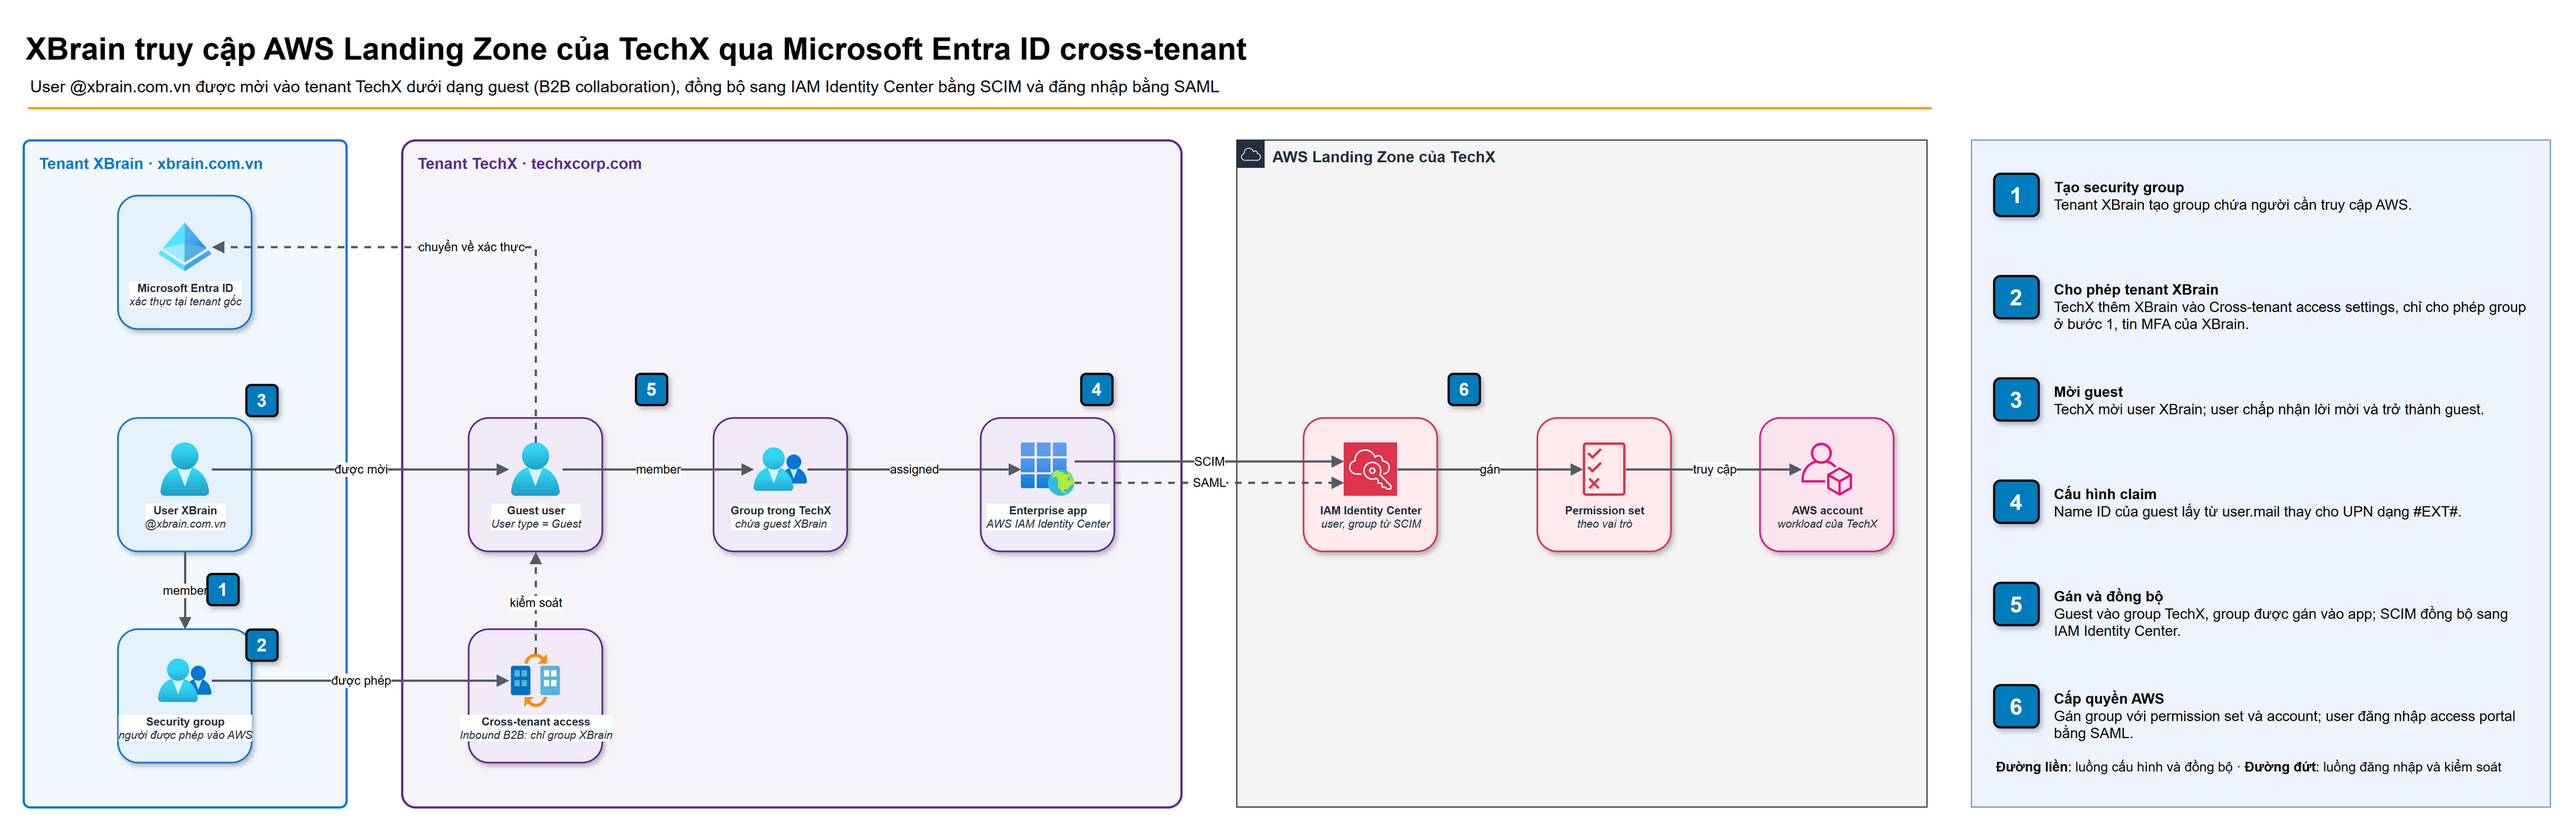
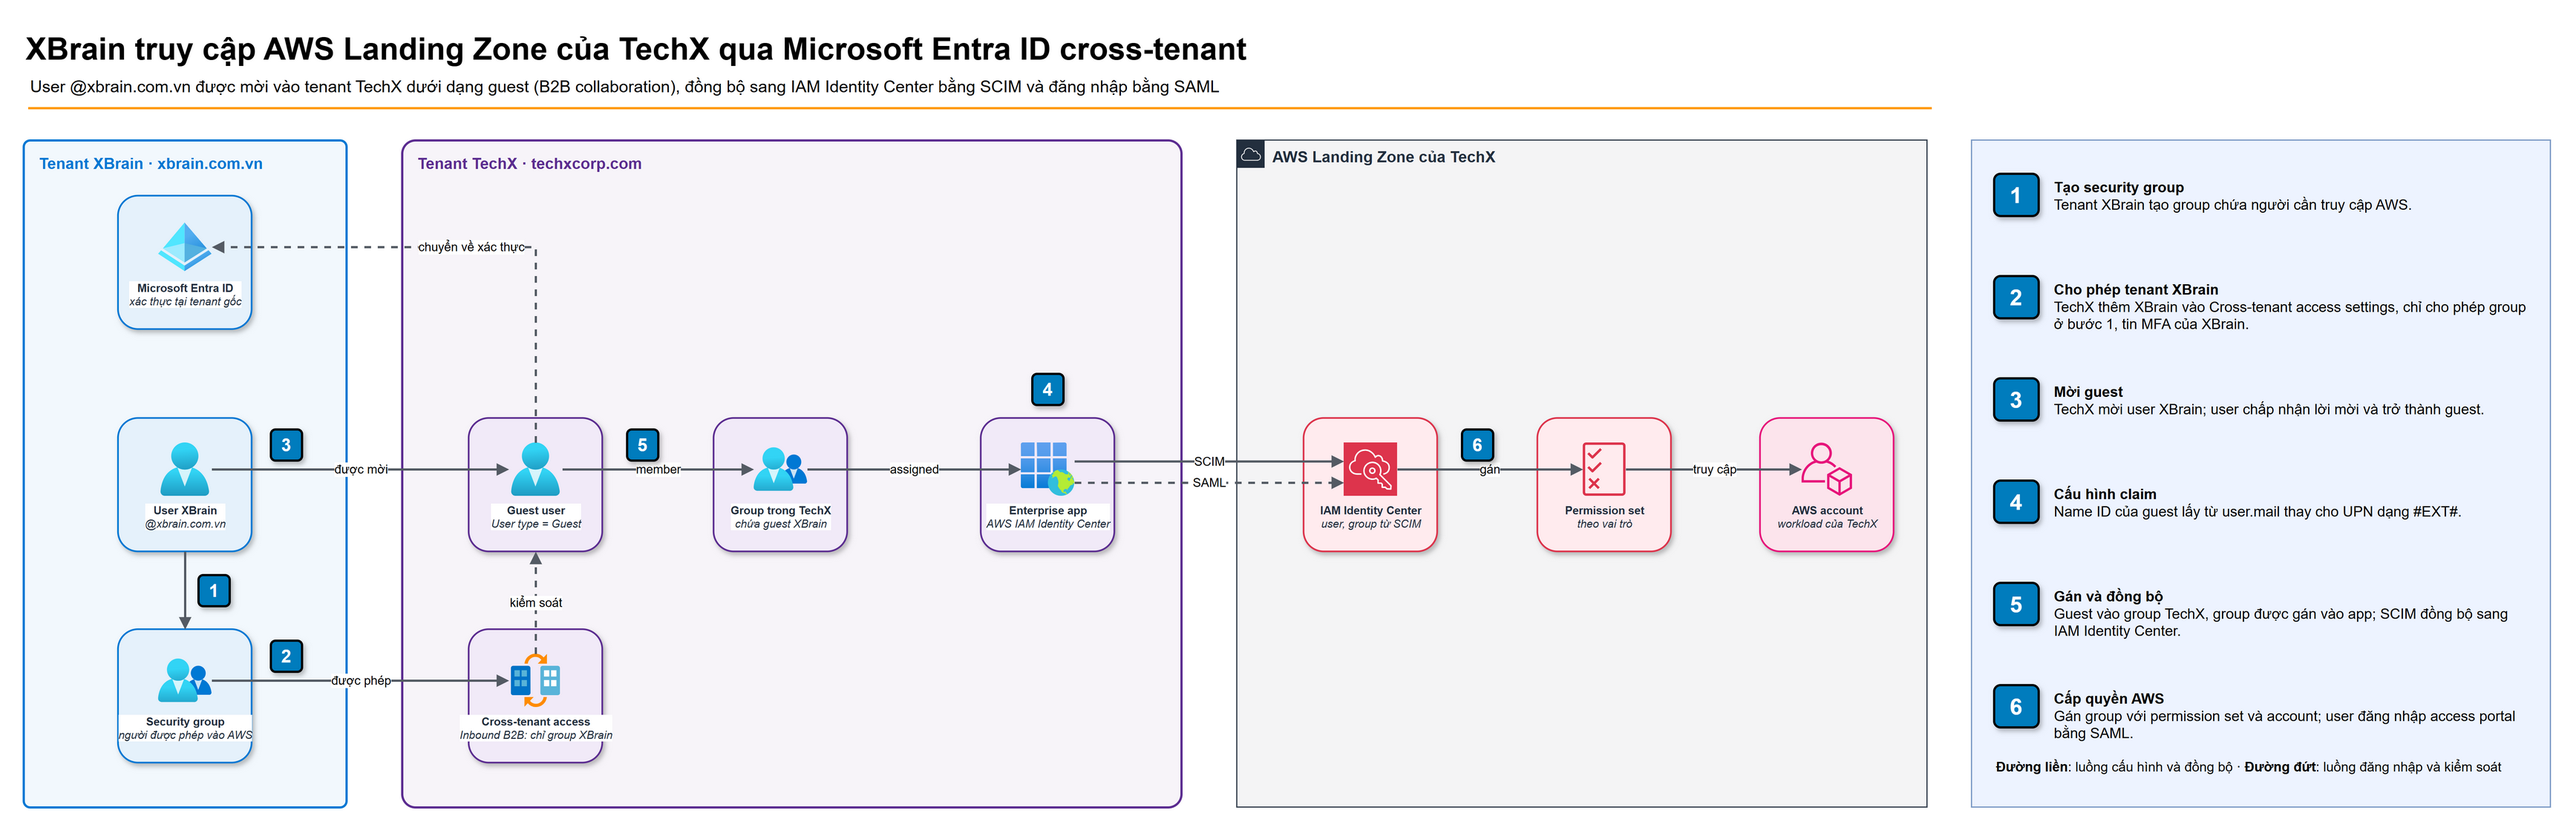
docs: align step badges in architecture diagram

diff --git a/images/_src/gen_cross_tenant_drawio.py b/images/_src/gen_cross_tenant_drawio.py
@@ -96,7 +96,7 @@ node('aws-ps', 'Permission set', 'theo vai trò', 1400, 380, aws_res('permission
 node('aws-acc', 'AWS account', 'workload của TechX', 1600, 380, aws_res('organizations_account', '#E7157B'), '#FCE4EC', '#E7157B')
 
 # Edges
-e('e1', 'xb-user-box', 'xb-group-box', 'member', extra='exitX=0.5;exitY=1;entryX=0.5;entryY=0;')
+e('e1', 'xb-user-box', 'xb-group-box', '', extra='exitX=0.5;exitY=1;entryX=0.5;entryY=0;')
 e('e2', 'xb-group', 'tx-cta', 'được phép')
 e('e3', 'xb-user', 'tx-guest', 'được mời')
 e('e-cta', 'tx-cta', 'tx-guest-box', 'kiểm soát', dashed=True, extra='exitX=0.5;exitY=0;entryX=0.5;entryY=1;')
@@ -109,12 +109,12 @@ e('e6b', 'aws-ps', 'aws-acc', 'truy cập')
 e('e-auth', 'tx-guest', 'xb-entra', 'chuyển về xác thực', dashed=True, extra='exitX=0.5;exitY=0;entryX=1;entryY=0.5;')
 
 # Badges
-badge(1, 205, 520)
-badge(2, 240, 570)
-badge(3, 240, 350)
-badge(4, 990, 340)
-badge(5, 590, 340)
-badge(6, 1320, 340)
+badge(1, 197, 521)
+badge(2, 262, 580)
+badge(3, 262, 390)
+badge(4, 946, 340)
+badge(5, 582, 390)
+badge(6, 1332, 390)
 
 # Legend
 LX, LY = 1790, 130
